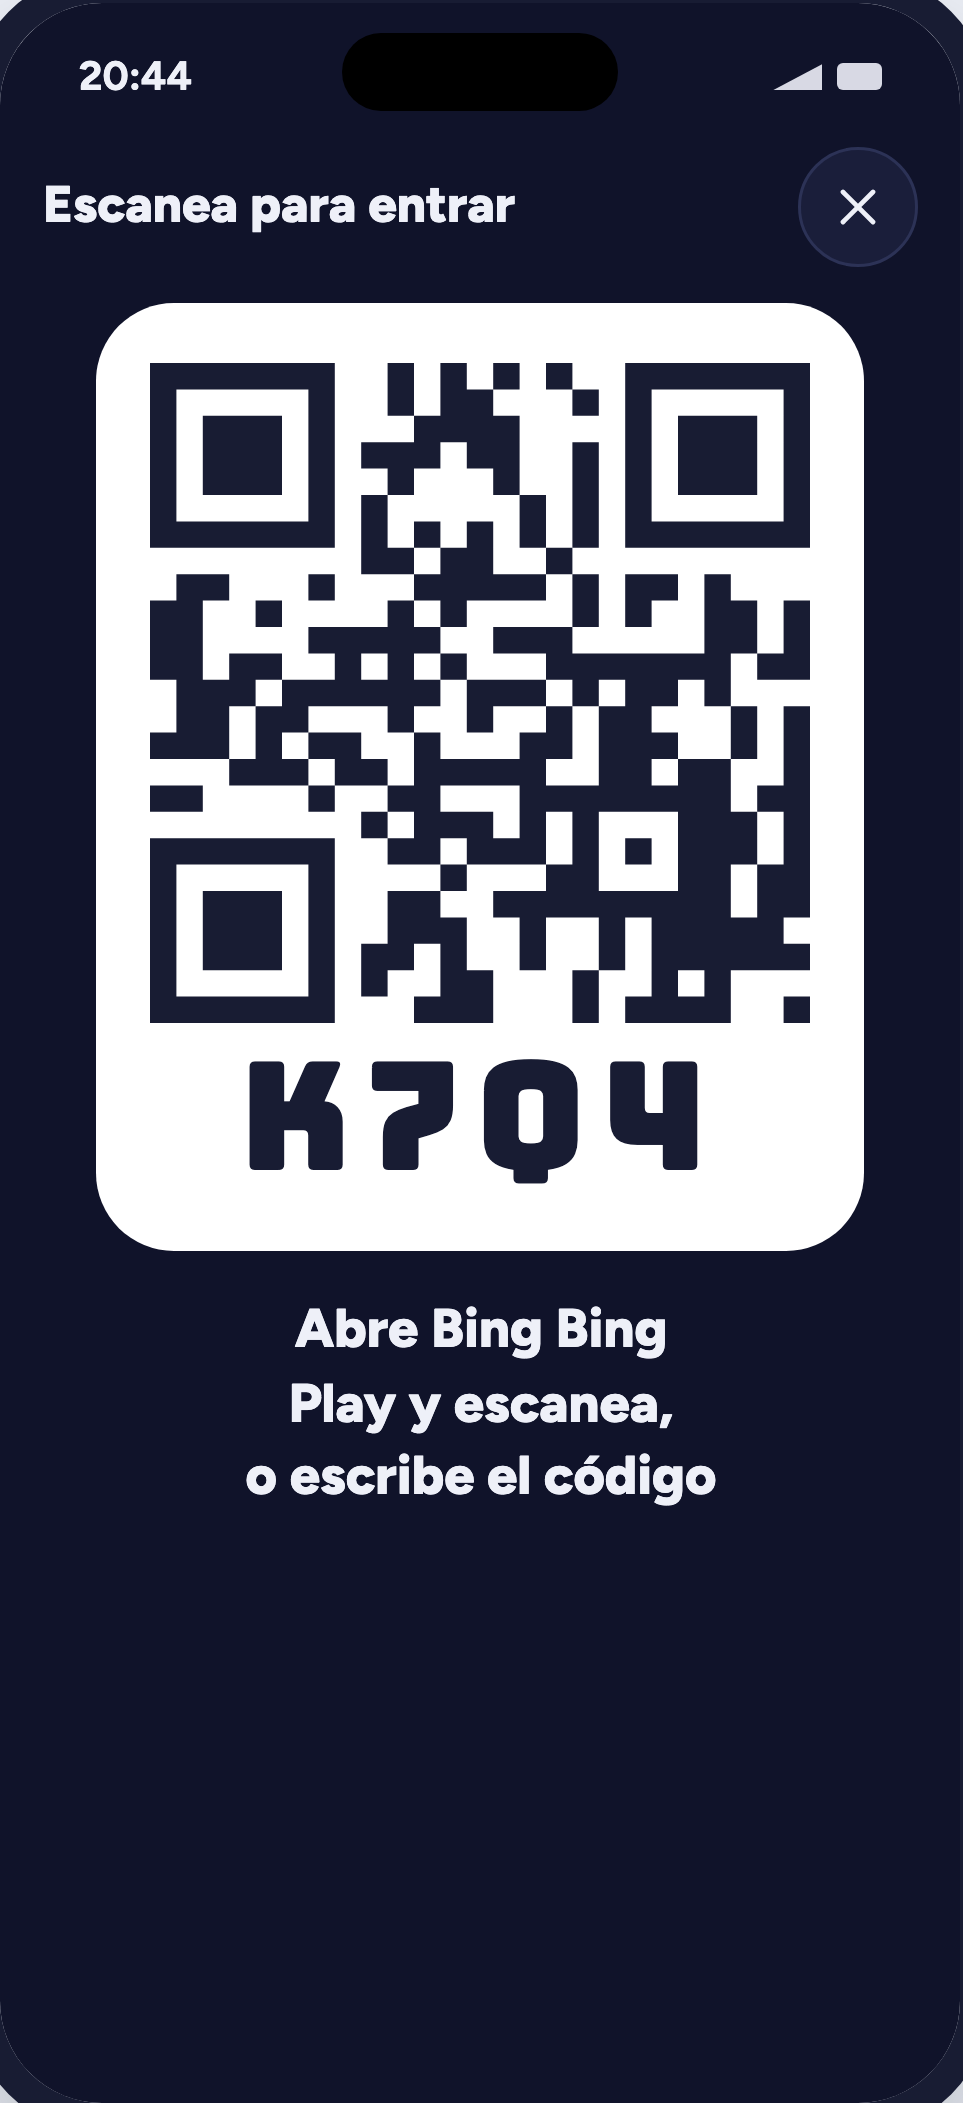
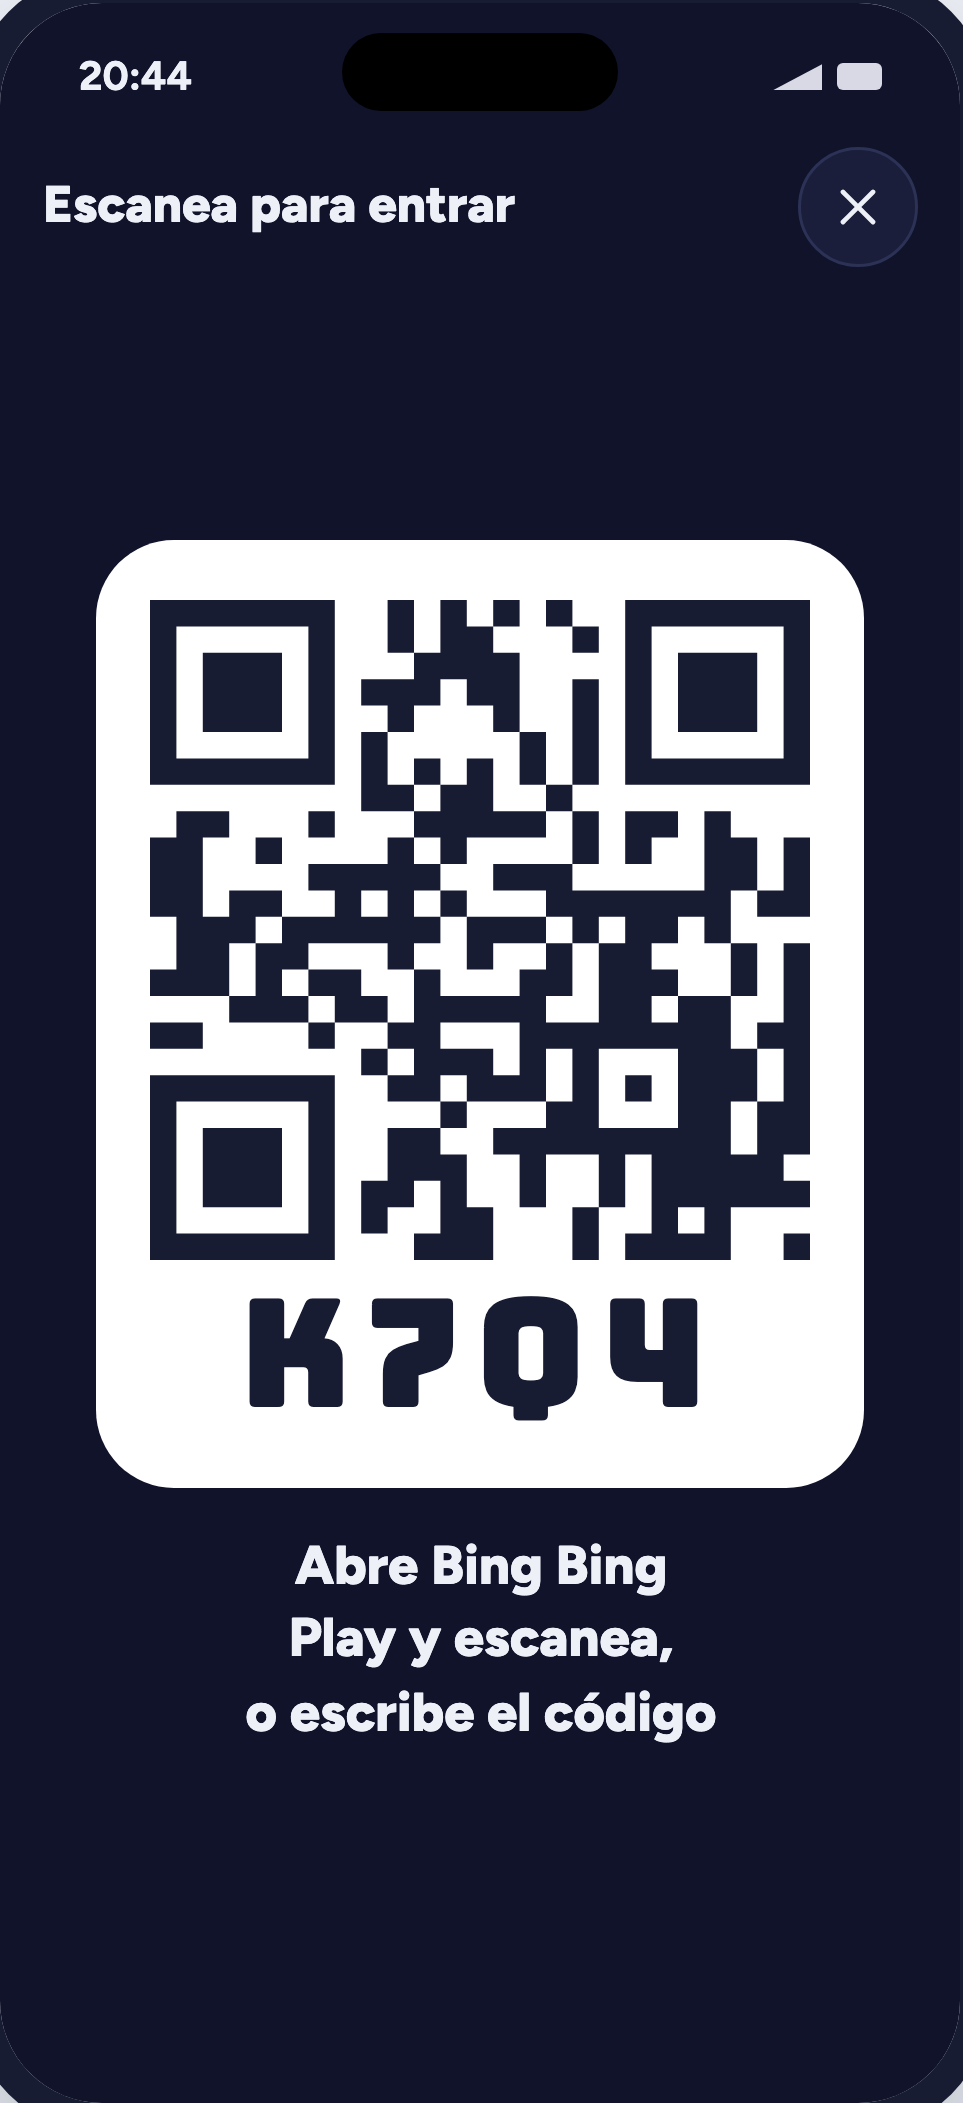
docs(diseno): el QR a pantalla completa queda centrado en el prototipo
Su CSS pedía centrarlo pero el cuerpo lo dejaba arriba.

Changed region(s): [[0.0935, 0.1236, 0.9034, 0.8345]]

diff --git a/tools/html_ref/bolilla-pantallas-nuevas.html b/tools/html_ref/bolilla-pantallas-nuevas.html
@@ -409,6 +409,6 @@ figcaption .fix{ font-size:12.5px; font-weight:700; color:var(--accent); }
 <div class="screens"><figure id=org-10-nueva-partida-v2 data-screen=org-10-nueva-partida-v2><div class="phone"><div class="app  dark"><div class="sb"><span>20:43</span><span class="dots"><i></i><i></i></span></div><div class="body" style="gap:10px"><div class="top"><span class=icb><svg class="ic "><use href="#i-left"/></svg></span><div><h2>Nueva partida</h2><small>Puedes cambiarlo antes de abrir la sala</small></div></div><div class="sec"><span class="h">NOMBRE</span><div class="field" style="color:var(--a-ink);font-weight:700">Bingo de los sábados</div></div><div class="sec"><span class="h">VISIBILIDAD</span><div class="seg"><span class="on">Pública</span><span>Privada</span></div><small style="font-size:12px;color:var(--a-muted);font-weight:600">Pública: la ve cualquiera en Play. Privada: solo con código, enlace o QR.</small></div><div class="sec"><span class="h">COLUMNAS POR FILA</span><div class="seg"><span class="on">5 · 75 bolillas</span><span>6 · 90 bolillas</span></div></div><div class="sec"><span class="h">FILAS POR JUGADOR</span><div class="seg"><span class="on">1 fila</span><span>Hasta 3</span></div></div></div><div class="foot"><div class="btn dau">Abrir sala</div></div></div></div><figcaption><code class=sid>org-10-nueva-partida-v2</code><h3>Nueva partida: visibilidad</h3><p>Se agrega quién puede ver la sala. Pública: la ve cualquiera en Play. Privada: solo con código, enlace o QR. La pantalla sigue hacia abajo con el precio y el premio.</p><span class=fix>Parte 1 de 2 (la pantalla se desplaza)</span></figcaption></figure>
 <figure id=org-10b-precio-premio data-screen=org-10b-precio-premio><div class="phone"><div class="app  dark"><div class="sb"><span>20:43</span><span class="dots"><i></i><i></i></span></div><div class="body" style="gap:9px"><div class="top"><span class=icb><svg class="ic "><use href="#i-left"/></svg></span><div><h2>Nueva partida</h2><small>Precio y premio</small></div></div><div class="sec"><span class="h">PRECIO POR FILA</span><div style="display:flex;justify-content:space-between;align-items:center"><span style="font-size:13.5px;font-weight:700">Créditos por fila</span><span class="stepper"><i><svg class="ic s"><use href="#i-minus"/></svg></i><b>5</b><i><svg class="ic s"><use href="#i-plus"/></svg></i></span></div></div><div class="sec"><span class="h">SI SE LLENAN LAS 20 FILAS</span><div class="kvr" style="font-weight:700;font-size:13.5px"><span>Recaudado</span><span>100</span></div><div class="kvr" style="font-weight:700;font-size:13.5px;color:var(--a-muted)"><span>Comisión de Bing Bing · 10 %</span><span>−10</span></div><div class="kvr" style="font-weight:800;font-size:14px;border-top:1px solid var(--a-line);padding-top:8px"><span>Disponible para premio</span><span>90</span></div></div><div class="sec"><span class="h">PREMIO</span><div style="display:flex;justify-content:space-between;align-items:center"><span style="font-size:13.5px;font-weight:700;display:flex;align-items:center;gap:8px"><svg class="ic s"><use href="#i-trophy"/></svg>Premio</span><span class="stepper"><i><svg class="ic s"><use href="#i-minus"/></svg></i><b>80</b><i><svg class="ic s"><use href="#i-plus"/></svg></i></span></div><small style="font-size:12px;color:var(--a-muted);font-weight:600">Puedes subirlo o bajarlo; no puede pasar de 90.</small><div class="kvr" style="font-weight:800;font-size:14px;border-top:1px solid var(--a-line);padding-top:8px"><span>Te quedan</span><span style="font-family:var(--display);font-weight:400;font-size:18px">10 créditos</span></div></div><div class="warn"><svg class="ic "><use href="#i-bell"/></svg><span>Si no se llenan las 20 filas, el premio sigue igual y se paga con lo recaudado.</span></div></div><div class="foot"><div class="btn dau">Abrir sala</div></div></div></div><figcaption><code class=sid>org-10b-precio-premio</code><h3>Nueva partida: precio y premio</h3><p>Quien organiza fija el precio por fila y el premio. Bing Bing retiene un porcentaje de lo recaudado y el premio no puede pasar de lo que queda. Lo que sobra es para quien organiza.</p><span class=fix>Parte 2 de 2 · reemplaza "Partida con premio · Pronto"</span></figcaption></figure>
 <figure id=org-11-compartir data-screen=org-11-compartir><div class="phone"><div class="app  dark"><div class="sb"><span>20:44</span><span class="dots"><i></i><i></i></span></div><div class="body" style="gap:12px"><div class="top"><span class=icb><svg class="ic "><use href="#i-left"/></svg></span><div><h2>Comparte tu sala</h2><small>Bingo de los sábados</small></div><span class="chip sp" style="margin-left:auto"><svg class="ic xs"><use href="#i-globe"/></svg>Pública</span></div><div class="qrcard"><span class="qrw"><svg xmlns="http://www.w3.org/2000/svg" viewBox="0 0 25 25" class="qr"><path class="qrline" stroke="#181c33" d="M0 0.5h7m2 0h1m1 0h1m1 0h1m1 0h1m2 0h7m-25 1h1m5 0h1m2 0h1m1 0h2m3 0h1m1 0h1m5 0h1m-25 1h1m1 0h3m1 0h1m3 0h4m4 0h1m1 0h3m1 0h1m-25 1h1m1 0h3m1 0h1m1 0h3m1 0h2m2 0h1m1 0h1m1 0h3m1 0h1m-25 1h1m1 0h3m1 0h1m2 0h1m3 0h1m2 0h1m1 0h1m1 0h3m1 0h1m-25 1h1m5 0h1m1 0h1m5 0h1m1 0h1m1 0h1m5 0h1m-25 1h7m1 0h1m1 0h1m1 0h1m1 0h1m1 0h1m1 0h7m-17 1h2m1 0h2m2 0h1m-15 1h2m3 0h1m3 0h5m1 0h1m1 0h2m1 0h1m-22 1h2m2 0h1m4 0h1m1 0h1m4 0h1m1 0h1m2 0h2m1 0h1m-25 1h2m4 0h5m2 0h3m5 0h2m1 0h1m-25 1h2m1 0h2m2 0h1m1 0h1m1 0h1m3 0h7m1 0h2m-24 1h3m1 0h6m1 0h3m1 0h1m1 0h2m1 0h1m-21 1h2m1 0h2m3 0h1m2 0h1m2 0h1m1 0h2m3 0h1m1 0h1m-25 1h3m1 0h1m1 0h2m2 0h1m3 0h2m1 0h3m2 0h1m1 0h1m-22 1h3m1 0h2m1 0h5m2 0h2m1 0h2m2 0h1m-25 1h2m4 0h1m2 0h2m3 0h8m1 0h2m-17 1h1m1 0h3m1 0h1m1 0h1m3 0h3m1 0h1m-25 1h7m2 0h2m1 0h3m1 0h1m1 0h1m1 0h3m1 0h1m-25 1h1m5 0h1m4 0h1m3 0h2m3 0h2m1 0h2m-25 1h1m1 0h3m1 0h1m2 0h2m2 0h9m1 0h2m-25 1h1m1 0h3m1 0h1m2 0h3m2 0h1m2 0h1m1 0h5m-24 1h1m1 0h3m1 0h1m1 0h2m1 0h1m2 0h1m2 0h1m1 0h6m-25 1h1m5 0h1m1 0h1m2 0h2m3 0h1m2 0h1m1 0h1m-22 1h7m3 0h3m3 0h1m1 0h4m2 0h1"/></svg></span><b>K7Q4</b><small>Escanéalo con Bing Bing Play</small></div><div class="linkf"><svg class="ic s"><use href="#i-link"/></svg><span>bingbing-f1491.web.app/sala/K7Q4</span><svg class="ic s"><use href="#i-copy"/></svg></div></div><div class="foot"><div class="btn dau"><svg class="ic "><use href="#i-share"/></svg>Compartir</div><div class="btn line"><svg class="ic "><use href="#i-qr"/></svg>Mostrar QR a pantalla completa</div></div></div></div><figcaption><code class=sid>org-11-compartir</code><h3>Compartir la sala</h3><p>Al abrir la sala: QR, código y enlace para pasarlos por WhatsApp o donde sea. El botón de compartir abre el menú del sistema.</p><span class=fix>Nuevo: hoja de compartir</span></figcaption></figure>
-<figure id=org-12-qr-pantalla data-screen=org-12-qr-pantalla><div class="phone"><div class="app  dark"><div class="sb"><span>20:44</span><span class="dots"><i></i><i></i></span></div><div class="body" style="gap:12px"><div class="top"><div><h2>Escanea para entrar</h2><small></small></div><span class="icb sp" style="margin-left:auto"><svg class="ic "><use href="#i-close"/></svg></span></div><div class="full"><div class="qrcard"><span class="qrw"><svg xmlns="http://www.w3.org/2000/svg" viewBox="0 0 25 25" class="qr"><path class="qrline" stroke="#181c33" d="M0 0.5h7m2 0h1m1 0h1m1 0h1m1 0h1m2 0h7m-25 1h1m5 0h1m2 0h1m1 0h2m3 0h1m1 0h1m5 0h1m-25 1h1m1 0h3m1 0h1m3 0h4m4 0h1m1 0h3m1 0h1m-25 1h1m1 0h3m1 0h1m1 0h3m1 0h2m2 0h1m1 0h1m1 0h3m1 0h1m-25 1h1m1 0h3m1 0h1m2 0h1m3 0h1m2 0h1m1 0h1m1 0h3m1 0h1m-25 1h1m5 0h1m1 0h1m5 0h1m1 0h1m1 0h1m5 0h1m-25 1h7m1 0h1m1 0h1m1 0h1m1 0h1m1 0h1m1 0h7m-17 1h2m1 0h2m2 0h1m-15 1h2m3 0h1m3 0h5m1 0h1m1 0h2m1 0h1m-22 1h2m2 0h1m4 0h1m1 0h1m4 0h1m1 0h1m2 0h2m1 0h1m-25 1h2m4 0h5m2 0h3m5 0h2m1 0h1m-25 1h2m1 0h2m2 0h1m1 0h1m1 0h1m3 0h7m1 0h2m-24 1h3m1 0h6m1 0h3m1 0h1m1 0h2m1 0h1m-21 1h2m1 0h2m3 0h1m2 0h1m2 0h1m1 0h2m3 0h1m1 0h1m-25 1h3m1 0h1m1 0h2m2 0h1m3 0h2m1 0h3m2 0h1m1 0h1m-22 1h3m1 0h2m1 0h5m2 0h2m1 0h2m2 0h1m-25 1h2m4 0h1m2 0h2m3 0h8m1 0h2m-17 1h1m1 0h3m1 0h1m1 0h1m3 0h3m1 0h1m-25 1h7m2 0h2m1 0h3m1 0h1m1 0h1m1 0h3m1 0h1m-25 1h1m5 0h1m4 0h1m3 0h2m3 0h2m1 0h2m-25 1h1m1 0h3m1 0h1m2 0h2m2 0h9m1 0h2m-25 1h1m1 0h3m1 0h1m2 0h3m2 0h1m2 0h1m1 0h5m-24 1h1m1 0h3m1 0h1m1 0h2m1 0h1m2 0h1m2 0h1m1 0h6m-25 1h1m5 0h1m1 0h1m2 0h2m3 0h1m2 0h1m1 0h1m-22 1h7m3 0h3m3 0h1m1 0h4m2 0h1"/></svg></span><b>K7Q4</b></div><h2>Abre Bing Bing Play y escanea,<br>o escribe el código</h2></div></div></div></div><figcaption><code class=sid>org-12-qr-pantalla</code><h3>QR a pantalla completa</h3><p>Para proyectarlo o mostrarlo en la reunión: QR lo más grande posible, el código en letras grandes y la pantalla siempre encendida.</p><span class=fix>Nuevo: QR grande</span></figcaption></figure>
+<figure id=org-12-qr-pantalla data-screen=org-12-qr-pantalla><div class="phone"><div class="app  dark"><div class="sb"><span>20:44</span><span class="dots"><i></i><i></i></span></div><div class="body" style="gap:12px;grid-template-rows:auto 1fr"><div class="top"><div><h2>Escanea para entrar</h2><small></small></div><span class="icb sp" style="margin-left:auto"><svg class="ic "><use href="#i-close"/></svg></span></div><div class="full"><div class="qrcard"><span class="qrw"><svg xmlns="http://www.w3.org/2000/svg" viewBox="0 0 25 25" class="qr"><path class="qrline" stroke="#181c33" d="M0 0.5h7m2 0h1m1 0h1m1 0h1m1 0h1m2 0h7m-25 1h1m5 0h1m2 0h1m1 0h2m3 0h1m1 0h1m5 0h1m-25 1h1m1 0h3m1 0h1m3 0h4m4 0h1m1 0h3m1 0h1m-25 1h1m1 0h3m1 0h1m1 0h3m1 0h2m2 0h1m1 0h1m1 0h3m1 0h1m-25 1h1m1 0h3m1 0h1m2 0h1m3 0h1m2 0h1m1 0h1m1 0h3m1 0h1m-25 1h1m5 0h1m1 0h1m5 0h1m1 0h1m1 0h1m5 0h1m-25 1h7m1 0h1m1 0h1m1 0h1m1 0h1m1 0h1m1 0h7m-17 1h2m1 0h2m2 0h1m-15 1h2m3 0h1m3 0h5m1 0h1m1 0h2m1 0h1m-22 1h2m2 0h1m4 0h1m1 0h1m4 0h1m1 0h1m2 0h2m1 0h1m-25 1h2m4 0h5m2 0h3m5 0h2m1 0h1m-25 1h2m1 0h2m2 0h1m1 0h1m1 0h1m3 0h7m1 0h2m-24 1h3m1 0h6m1 0h3m1 0h1m1 0h2m1 0h1m-21 1h2m1 0h2m3 0h1m2 0h1m2 0h1m1 0h2m3 0h1m1 0h1m-25 1h3m1 0h1m1 0h2m2 0h1m3 0h2m1 0h3m2 0h1m1 0h1m-22 1h3m1 0h2m1 0h5m2 0h2m1 0h2m2 0h1m-25 1h2m4 0h1m2 0h2m3 0h8m1 0h2m-17 1h1m1 0h3m1 0h1m1 0h1m3 0h3m1 0h1m-25 1h7m2 0h2m1 0h3m1 0h1m1 0h1m1 0h3m1 0h1m-25 1h1m5 0h1m4 0h1m3 0h2m3 0h2m1 0h2m-25 1h1m1 0h3m1 0h1m2 0h2m2 0h9m1 0h2m-25 1h1m1 0h3m1 0h1m2 0h3m2 0h1m2 0h1m1 0h5m-24 1h1m1 0h3m1 0h1m1 0h2m1 0h1m2 0h1m2 0h1m1 0h6m-25 1h1m5 0h1m1 0h1m2 0h2m3 0h1m2 0h1m1 0h1m-22 1h7m3 0h3m3 0h1m1 0h4m2 0h1"/></svg></span><b>K7Q4</b></div><h2>Abre Bing Bing Play y escanea,<br>o escribe el código</h2></div></div></div></div><figcaption><code class=sid>org-12-qr-pantalla</code><h3>QR a pantalla completa</h3><p>Para proyectarlo o mostrarlo en la reunión: QR lo más grande posible, el código en letras grandes y la pantalla siempre encendida.</p><span class=fix>Nuevo: QR grande</span></figcaption></figure>
 </div>
 </main></body></html>
